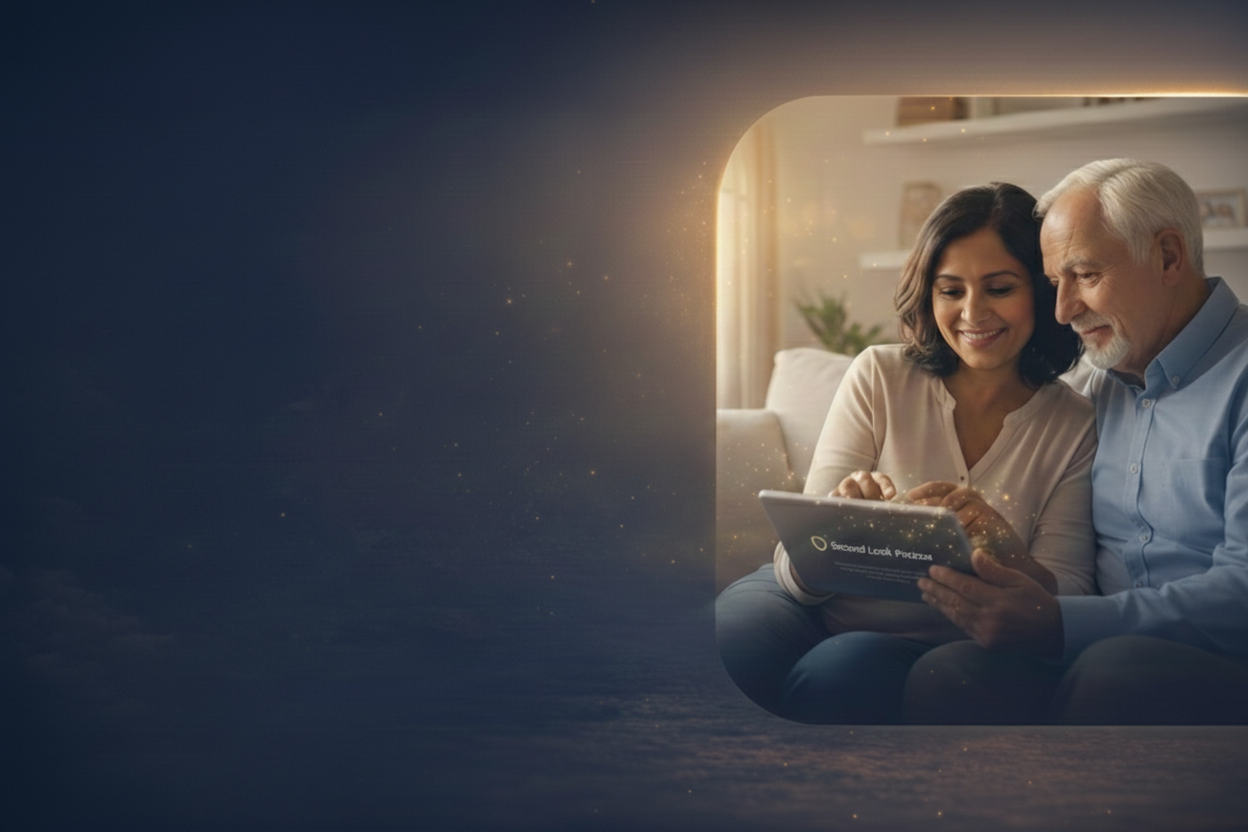
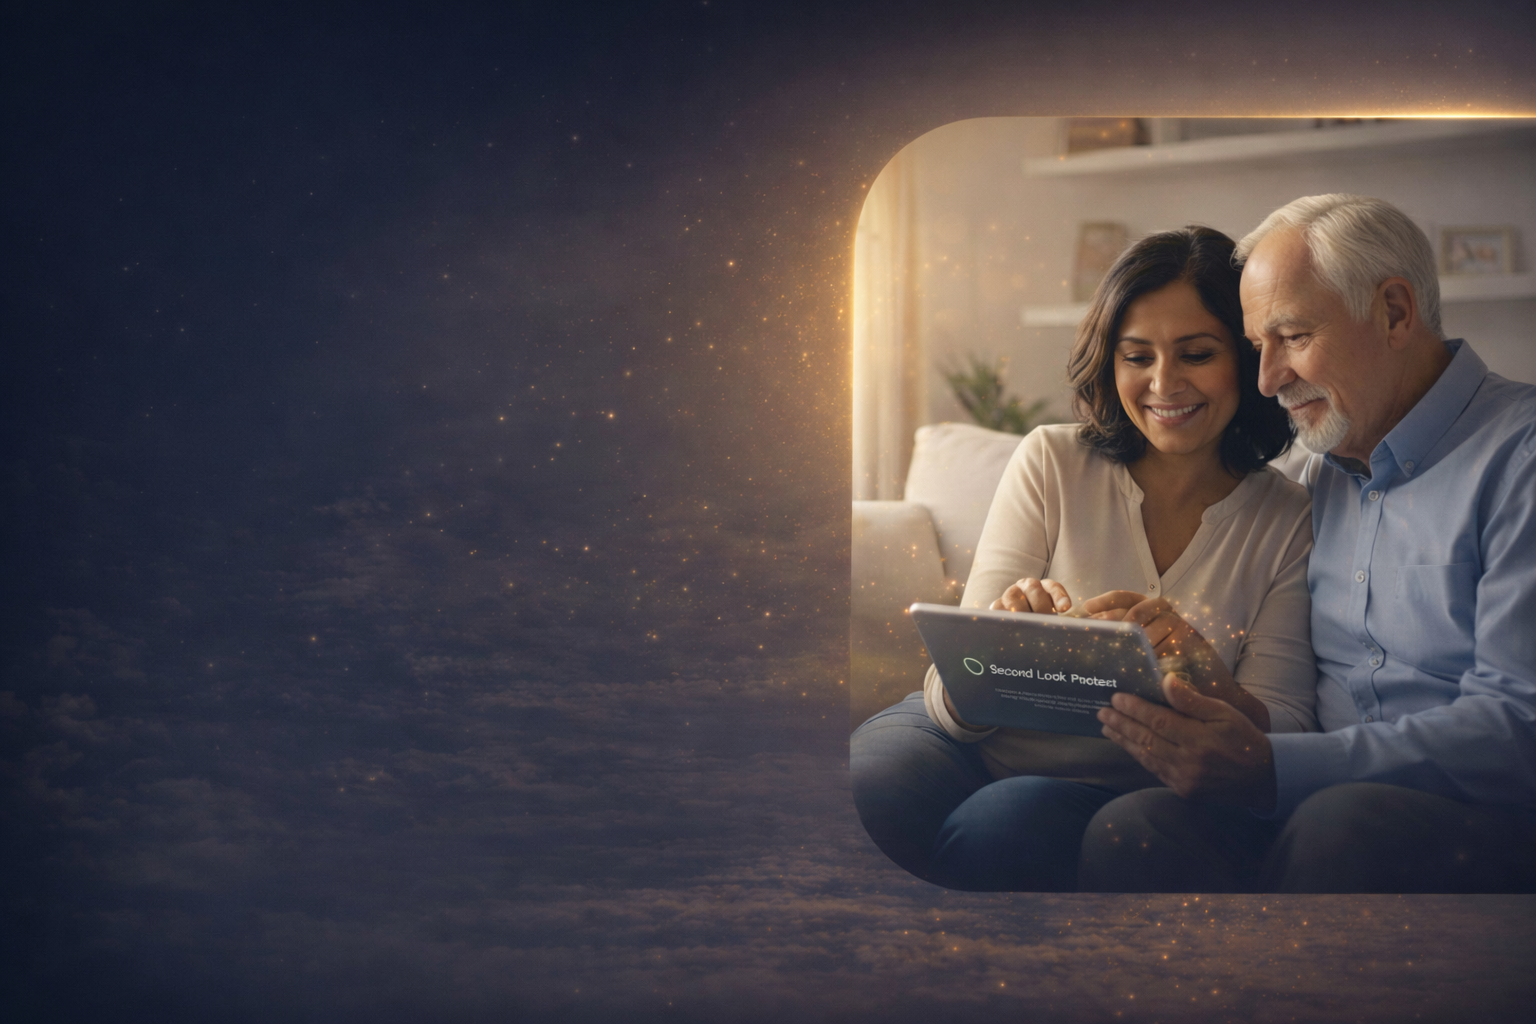
Replace hero image with new Hero Image 1.png; center bg-position

diff --git a/src/index.css b/src/index.css
@@ -201,7 +201,7 @@ p {
     background-image: image-set(url('/hero-bg.png') 1x,
             url('/hero-bg@2x.png') 2x);
     background-size: cover;
-    background-position: right 40%;
+    background-position: center center;
     background-repeat: no-repeat;
     /* No filter, no blur */
     filter: none;
